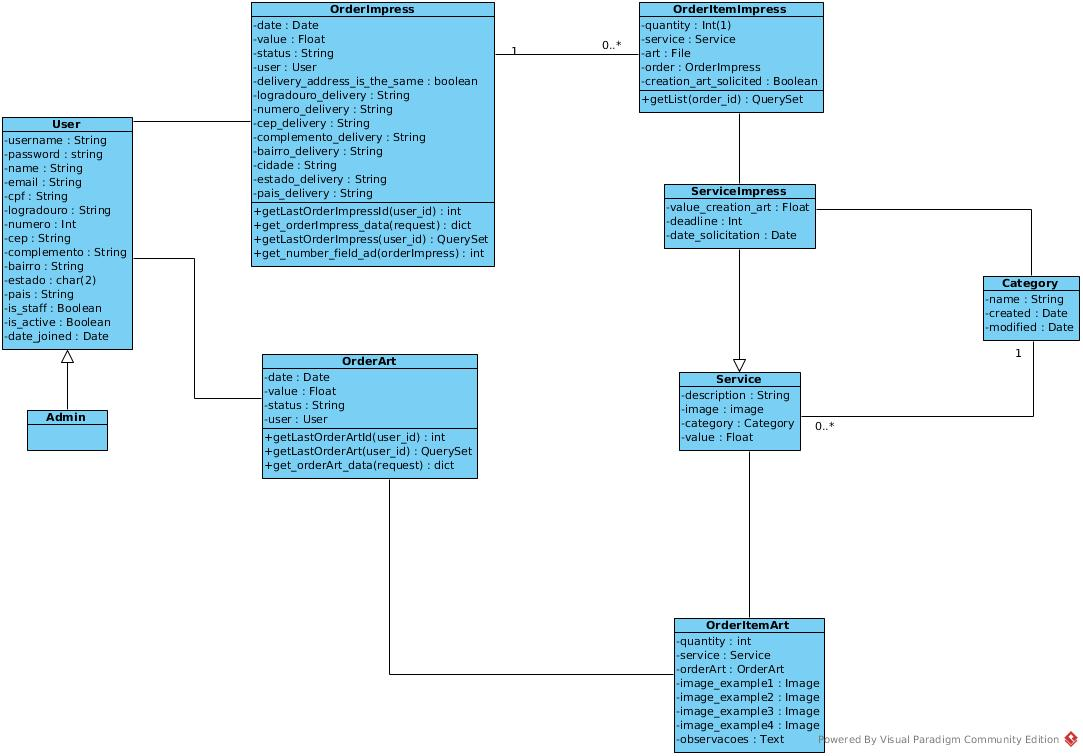
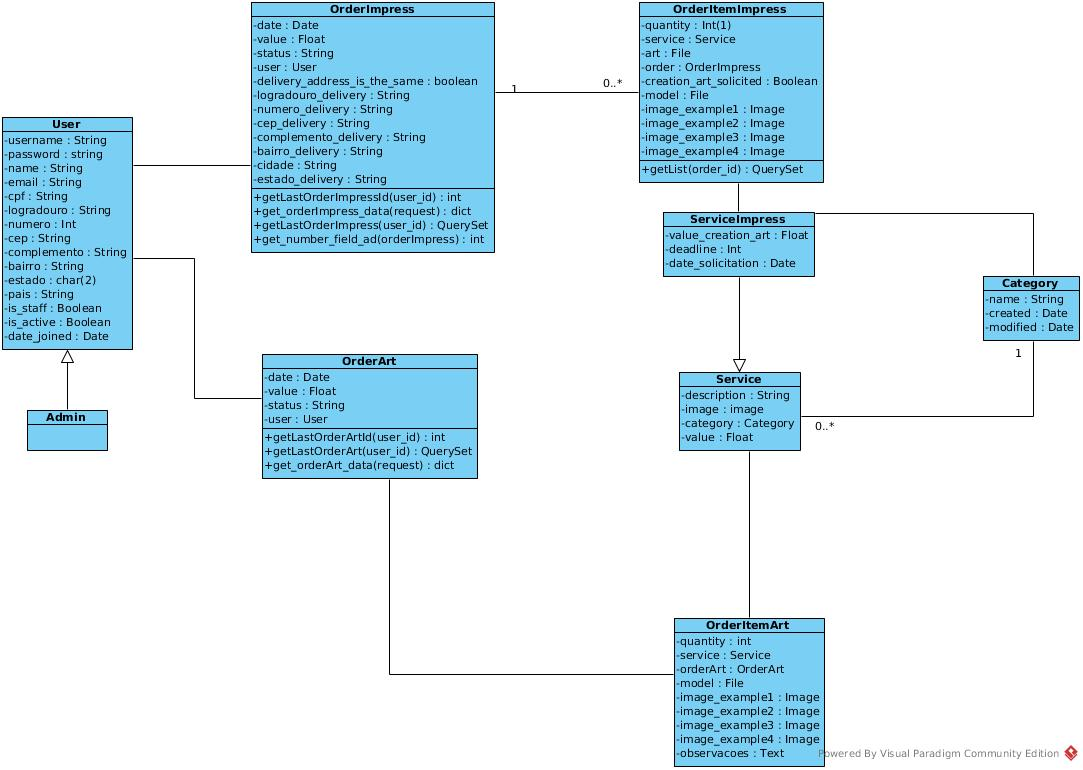
update

diff --git a/dashboard_admin/templates/dashboard_admin/detail_oa.html b/dashboard_admin/templates/dashboard_admin/detail_oa.html
@@ -111,46 +111,8 @@ Pedido</h5>
 	<tr>
 		<td colspan="2"></td>
 	</tr>
-	<tr>
-		<td>Imagem Para Aprovação</td>
-		{% if item.image_view %}
-		<td>
-			<img src="{{ item.image_view.url }}">
-		</td>
-		<td>
-			<a href="{% url 'checkout:send_image_view' item.id orderart.id %}">
-				<input type="button" class="btn btn-primary" value="Alterar">
-			</a>
-		</td>
-		{% else %}
-		<td><i>Não Enviado</i></td>
-		<td>
-			<a href="#">
-				<input type="button" class="btn btn-primary" value="Enviar">
-			</a>
-		</td>
-		{% endif %}
-	</tr>
-	{% if item.image_view %}
-	<tr>
-		{% if item.approved %}
-		<td style="color: blue">Aprovado</td>
-		{% else %}
-		<td style="color: red">Ainda não aprovado</td>
-		{% endif %}
-		</td>
-	</tr>
-	<tr>
-		<td>Observações</td>
-		<td>
-			{% if item.note %}
-				{{ item.note }}
-			{% else %}
-				Nenhum comentário foi enviado
-			{% endif %}
-		</td>
-	</tr>
-	{% endif %}
+
+	
 	{% endfor %}
 </table>
 

diff --git a/dashboard_client/templates/dashboard_client/insert_file.html b/dashboard_client/templates/dashboard_client/insert_file.html
@@ -69,14 +69,24 @@
 								<td>{{ serviceImpress.value_creation_art }}</td>
 							</tr>
 							<tr>
-								<td>Prazo de entrega</td>
-								<td>
-									{% if serviceImpress.deadline %}
-									{{ serviceImpress.deadline }} dias
-									{% else %}
-									<i style="color: red;">Nao definido</i>
-									{% endif %}
-								</td>		
+								<td>Enviar Modelo</td>
+								<td>{{ form.model }}</td>
+							</tr>
+							<tr>
+								<td>Imagem Exemplo 1</td>
+								<td>{{ form.image_example1 }}</td>
+							</tr>
+							<tr>
+								<td>Imagem Exemplo 2</td>
+								<td>{{ form.image_example2 }}</td>
+							</tr>
+							<tr>
+								<td>Imagem Exemplo 3</td>
+								<td>{{ form.image_example3 }}</td>
+							</tr>
+							<tr>
+								<td>Imagem Exemplo 4</td>
+								<td>{{ form.image_example4 }}</td>
 							</tr>
 							<tr>
 								<td>Observções</td>

diff --git a/dashboard_admin/templates/dashboard_admin/index.html b/dashboard_admin/templates/dashboard_admin/index.html
@@ -43,7 +43,7 @@
 			<div class="col-sm-2">
 				<ul class="list-group" style="list-style-type: none;">
 					<li class="list-group-item">
-						<a href="#">
+						<a href="{% url 'dashboard_admin:index' %}">
 							Impressão
 						</a>
 					</li>

diff --git a/dashboard_client/models.py b/dashboard_client/models.py
@@ -157,6 +157,18 @@ class OrderItemImpress(models.Model):
 		blank=True, null=True)
 	date_solicitation = models.DateTimeField('Data de solicitação da arte',
 		blank=True, null=True)
+	# if the user require the art creation, he have send model
+	model = models.FileField(upload_to='order-item-impress',
+		verbose_name='Logo', null=True, blank=True)
+	# it is images examples for art creation
+	image_example1 = models.FileField(upload_to='image-example',
+		verbose_name='Imagem de Exemplo 1', null=True, blank=True)
+	image_example2 = models.FileField(upload_to='image-example',
+		verbose_name='Imagem de Exemplo 2', null=True, blank=True)
+	image_example3 = models.FileField(upload_to='image-example',
+		verbose_name='Imagem de Exemplo 3', null=True, blank=True)
+	image_example4 = models.FileField(upload_to='image-example',
+		verbose_name='Imagem de Exemplo 4', null=True, blank=True)
 
 	class Meta:
 		verbose_name = 'Impressão'
@@ -245,6 +257,8 @@ class OrderItemArt(models.Model):
 		related_name="items", null=True, blank=True)
 	note = models.TextField(verbose_name='Observações', null=True,
 		blank=True)
+	model = models.FileField(upload_to='order-item-impress',
+		verbose_name='Logo', null=True, blank=True)
 	
 	image_example1 = models.FileField(upload_to='image-example',
 		verbose_name='Imagem de Exemplo 1', null=True, blank=True)
@@ -255,12 +269,6 @@ class OrderItemArt(models.Model):
 	image_example4 = models.FileField(upload_to='image-example',
 		verbose_name='Imagem de Exemplo 4', null=True, blank=True)
 
-	image_view = models.ImageField(upload_to='image_view',
-		verbose_name='Imagem para Visualização', null=True, blank=True)
-	approved = models.BooleanField(
-		verbose_name='Aprovado',
-		default=False,
-		blank=True)
 	final_work = models.FileField(upload_to='final_work',
 		verbose_name='Trabalho Final', null=True, blank=True)
 

diff --git a/dashboard_client/migrations/0006_auto_20180522_0156.py b/dashboard_client/migrations/0006_auto_20180522_0156.py
@@ -1,0 +1,46 @@
+# Generated by Django 2.0.3 on 2018-05-22 04:56
+
+from django.db import migrations, models
+
+
+class Migration(migrations.Migration):
+
+    dependencies = [
+        ('dashboard_client', '0005_orderitemimpress_date_solicitation'),
+    ]
+
+    operations = [
+        migrations.RemoveField(
+            model_name='orderitemart',
+            name='approved',
+        ),
+        migrations.RemoveField(
+            model_name='orderitemart',
+            name='image_view',
+        ),
+        migrations.AddField(
+            model_name='orderitemimpress',
+            name='image_example1',
+            field=models.FileField(blank=True, null=True, upload_to='image-example', verbose_name='Imagem de Exemplo 1'),
+        ),
+        migrations.AddField(
+            model_name='orderitemimpress',
+            name='image_example2',
+            field=models.FileField(blank=True, null=True, upload_to='image-example', verbose_name='Imagem de Exemplo 2'),
+        ),
+        migrations.AddField(
+            model_name='orderitemimpress',
+            name='image_example3',
+            field=models.FileField(blank=True, null=True, upload_to='image-example', verbose_name='Imagem de Exemplo 3'),
+        ),
+        migrations.AddField(
+            model_name='orderitemimpress',
+            name='image_example4',
+            field=models.FileField(blank=True, null=True, upload_to='image-example', verbose_name='Imagem de Exemplo 4'),
+        ),
+        migrations.AddField(
+            model_name='orderitemimpress',
+            name='model',
+            field=models.FileField(blank=True, null=True, upload_to='order-item-impress', verbose_name='Logo'),
+        ),
+    ]

diff --git a/dashboard_client/forms.py b/dashboard_client/forms.py
@@ -3,7 +3,12 @@ from django import forms
 
 class OrderItemImpressForm(forms.Form):
 	art = forms.FileField(required=False)
-	observations = forms.CharField(widget=forms.Textarea, required=False) 
+	observations = forms.CharField(widget=forms.Textarea, required=False)
+	model = forms.FileField(required=False)
+	image_example1 = forms.ImageField(required=False)
+	image_example2 = forms.ImageField(required=False)
+	image_example3 = forms.ImageField(required=False)
+	image_example4 = forms.ImageField(required=False) 
 
 
 class OrderItemArtForm(forms.Form):

diff --git a/dashboard_client/migrations/0007_orderitemart_model.py b/dashboard_client/migrations/0007_orderitemart_model.py
@@ -1,0 +1,18 @@
+# Generated by Django 2.0.3 on 2018-05-22 05:04
+
+from django.db import migrations, models
+
+
+class Migration(migrations.Migration):
+
+    dependencies = [
+        ('dashboard_client', '0006_auto_20180522_0156'),
+    ]
+
+    operations = [
+        migrations.AddField(
+            model_name='orderitemart',
+            name='model',
+            field=models.FileField(blank=True, null=True, upload_to='order-item-impress', verbose_name='Logo'),
+        ),
+    ]
